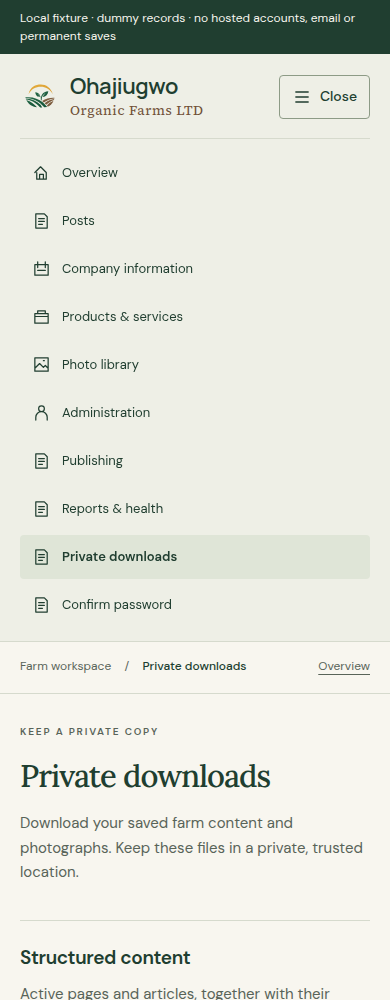
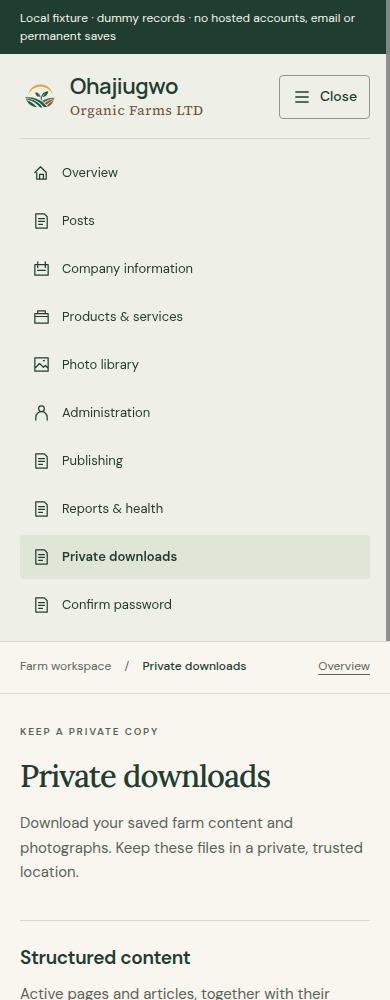
fix: recover mobile navigation after cached history restore

Changed region(s): [[0.9846, 0.0, 1.0, 0.651]]

diff --git a/HANDOFF.md b/HANDOFF.md
@@ -2,6 +2,8 @@
 
 ## 21 November — mobile story spacing and shared hamburger navigation
 
+Browser-history follow-up: a regression simulating cached-page pagehide/pageshow exposed that Reports could restore disposed menu handlers without reinitialising them. Added cached-page revalidation/reload, consistent with existing private-screen recovery. The test first failed waiting for a fresh report request, then passed after the fix, observing the new request/document and a working menu. This controlled lifecycle test is separate from actual hosted Brave back-cache behaviour. Initial UI commit `f168c48` successfully staged via run 44934371260; final follow-up deployment evidence is recorded after its upload.
+
 Owner reports no mobile space between rooted-in and Abia and requests a hamburger dropdown instead of the always-visible mobile admin links. Reproduced both with regressions before fixing. The story's `<br>` is hidden by the existing mobile CSS; added a real word space after it, preserving the desktop line break. Public markup/section/CSS preservation assertions were adjusted only for that authorised whitespace, and a separate text assertion prevents the joined words returning.
 
 Shared navigation now has an accessible mobile Menu button, disclosure state/label and single-column dropdown using the existing links (no duplicate navigation). It closes on selection, outside pointer interaction, focus leaving the sidebar and Escape; Escape returns focus to the toggle, and selecting in-page editor sections retains visible focus when appropriate. Native button Enter/Space activation works. Desktop navigation remains pinned and visible. Without JavaScript the links stay available rather than disappearing. The new fixed browser-only module is in the exact asset allowlist; Reports CSP now permits same-origin scripts for this shared module while continuing to reject inline/third-party scripts. No provider calls, credentials or persistence were added by navigation.
